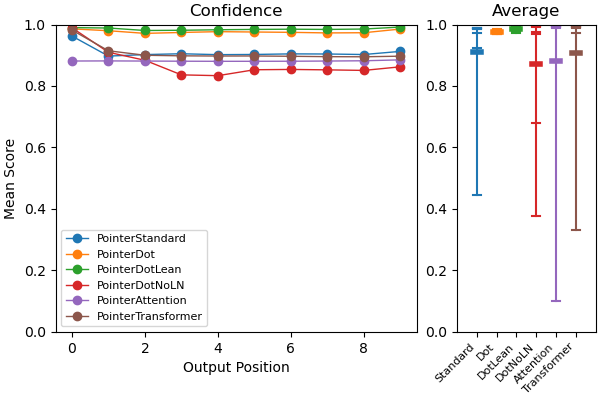
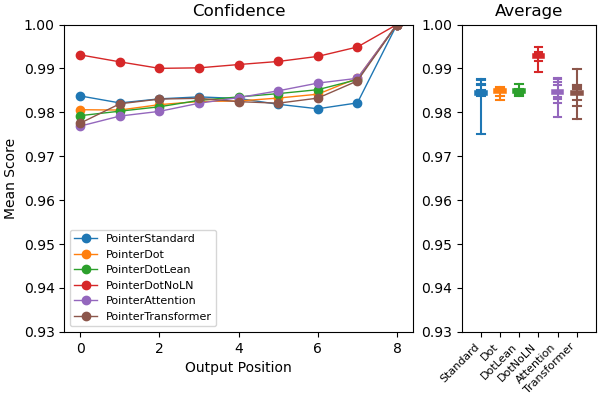
TSP RL documentation & figures

diff --git a/experiments/ptrArchComp_TSP_RL.py b/experiments/ptrArchComp_TSP_RL.py
@@ -295,7 +295,7 @@ def plotResults(results, args):
     ax[0].set_ylabel('Mean Score')
     ax[0].set_title('Confidence')
     ax[0].legend(loc='best', fontsize=8)
-    ax[0].set_ylim(0, 1)
+    ax[0].set_ylim(0.93, 1)
     
     xOffset = [-0.2, 0.2]
     get_x = lambda idx: [xOffset[0]+idx, xOffset[1]+idx]
@@ -309,7 +309,7 @@ def plotResults(results, args):
     ax[1].set_xticklabels([pmethod[7:] for pmethod in POINTER_METHODS], rotation=45, ha='right', fontsize=8)
     ax[1].set_title('Average')
     ax[1].set_xlim(-1, len(POINTER_METHODS))
-    ax[1].set_ylim(0, 1)
+    ax[1].set_ylim(0.93, 1)
 
     if not(args.nosave):
         plt.savefig(str(figsPath/getFileName(extra='confidence')))
